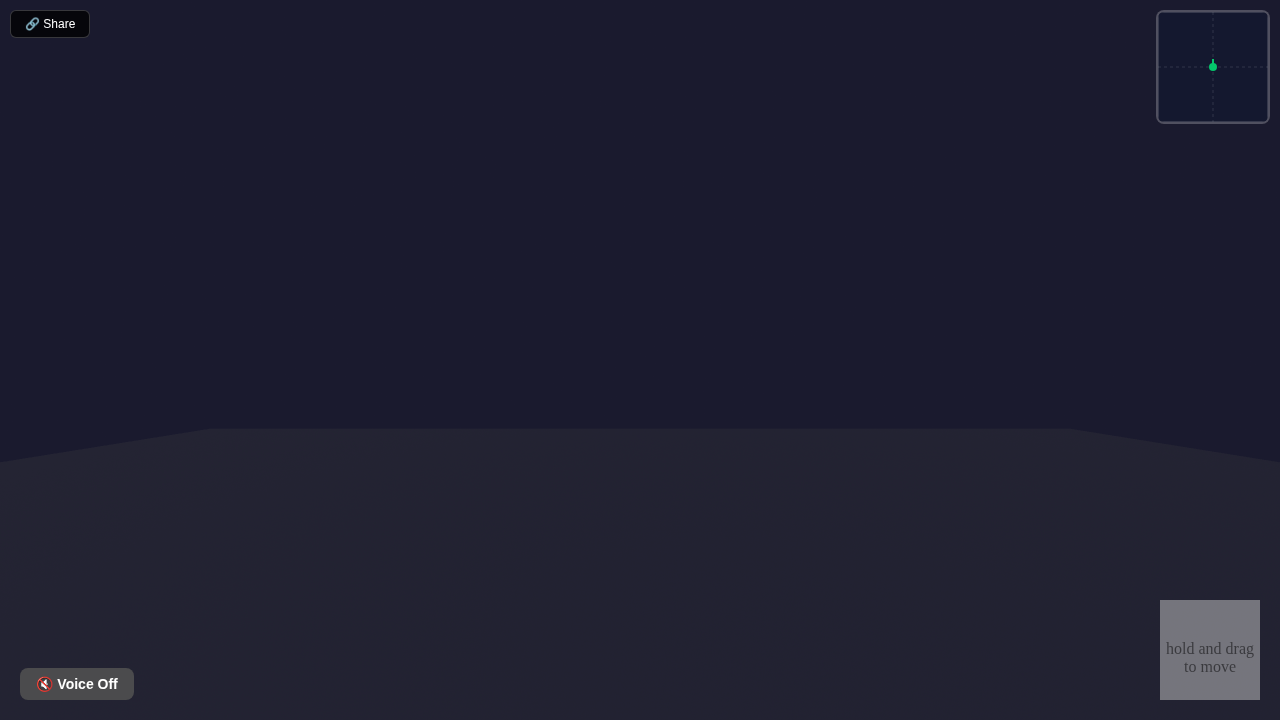
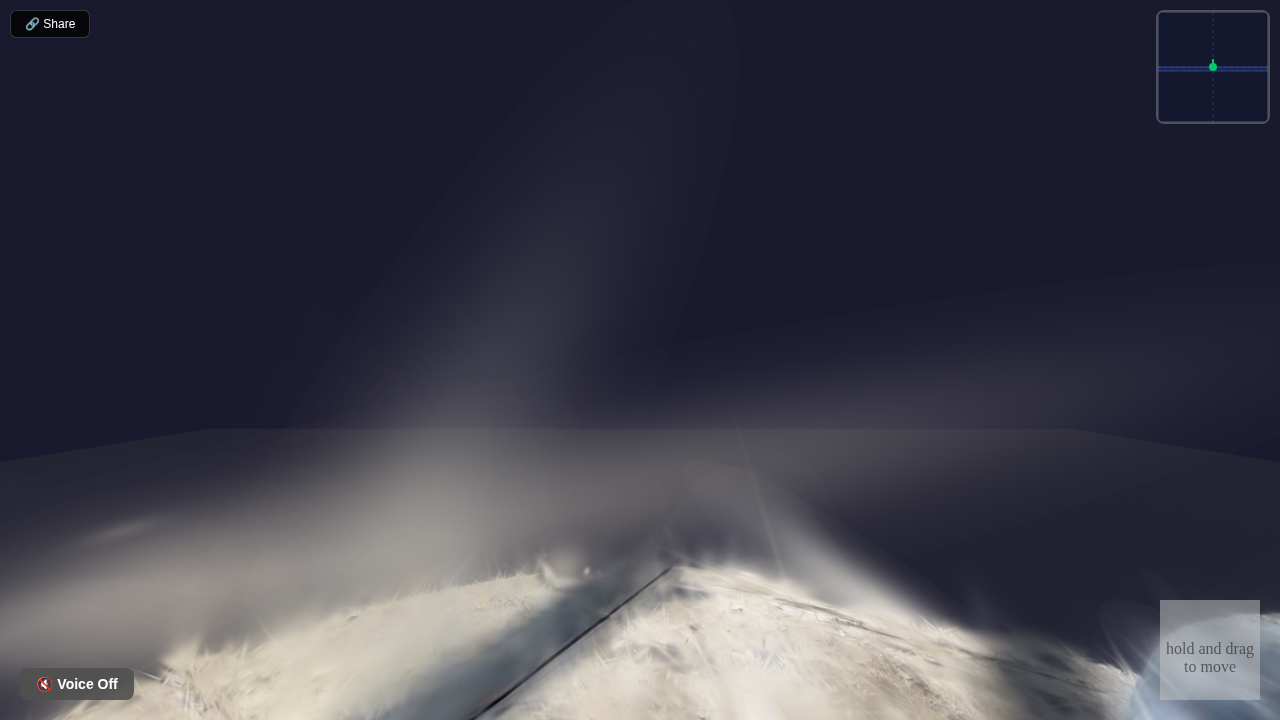
fix: disable broken cutout for gaussian splats - library uses fixed unit-cube bounds that cull all real-world scanned splats, causing white page

diff --git a/flask_server/app/metamuseum/elements/basic.py b/flask_server/app/metamuseum/elements/basic.py
@@ -236,13 +236,10 @@ class GaussianSplat(WallElement):
         splat_url = self.splat_url
         if not splat_url.endswith('.splat') and not splat_url.endswith('.ply'):
             splat_url = 'https://huggingface.co/quadjr/aframe-gaussian-splatting/resolve/main/luma-seal.splat'
-        if self.cutout_scale is not None:
-            aframes += '<a-box id="cutout-box-{}" visible="false" scale="{}" position="{}"></a-box>'.format(
-                self.name, self.cutout_scale, self.cutout_position)
-            aframes += '<a-entity gaussian_splatting="src: {}; cutoutEntity: #cutout-box-{};"></a-entity>'.format(
-                splat_url, self.name)
-        else:
-            aframes += '<a-entity gaussian_splatting="src: {};"></a-entity>'.format(splat_url)
+        # NOTE: cutout is disabled — aframe-gaussian-splatting uses fixed [-0.5,0.5] unit-cube
+        # bounds which doesn't align with real scanned splats. Cutout culls everything.
+        # TODO: re-implement cutout using world-space AABB checks instead of local-space cube.
+        aframes += '<a-entity gaussian_splatting="src: {};"></a-entity>'.format(splat_url)
         
         return '<a-entity id="splat-{}" data-element-id="{}" data-element-type="gaussian_splat" position="{}" scale="{}" rotation="{}">{}</a-entity>'.format(
             self.name, self._id, this_position, self._get_scale_str(), this_rotation, aframes)